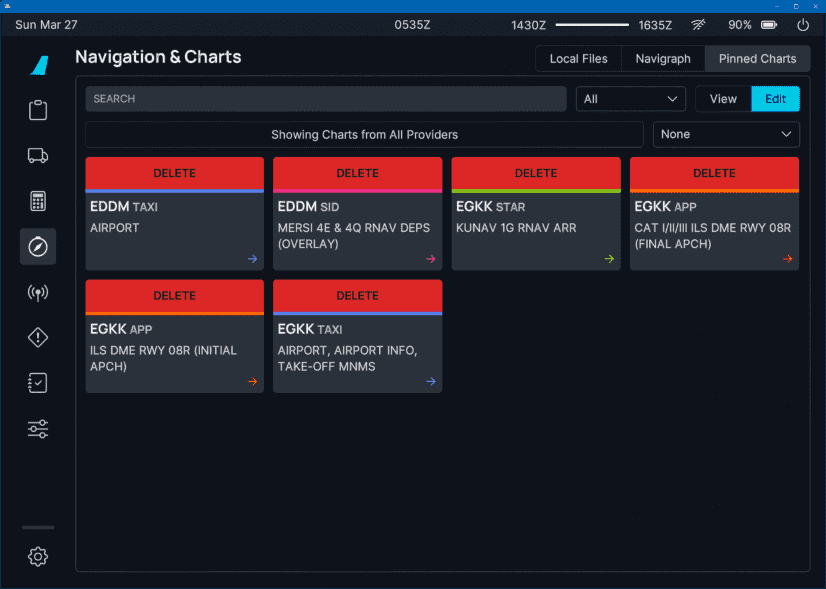
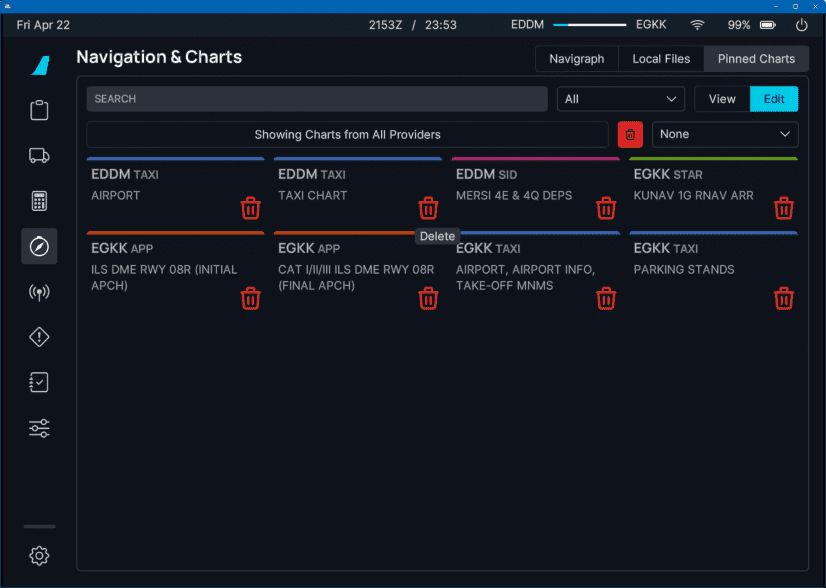
Updates to screenshots for charts deletion

diff --git a/docs/fbw-a32nx/feature-guides/flyPados3/charts.md b/docs/fbw-a32nx/feature-guides/flyPados3/charts.md
@@ -149,6 +149,8 @@ also in the charts-widget on the Dashboard.
     ![](../../assets/flypados3/pinned-charts-delete.png){loading=lazy width=70% align=left}
     Click on edit to unpin charts. Of course this can also be done by unchecking the pin symbol in the chart lists. 
 
+You can also remove all pinned charts at once by clicking the `Remove All` button (trash can) above the charts.
+
 !!! block ""
     ![](../../assets/flypados3/pinned-charts-sort.png){loading=lazy width=30% align=left}
     Pinned charts can be sorted by selected one of the sort options. 
